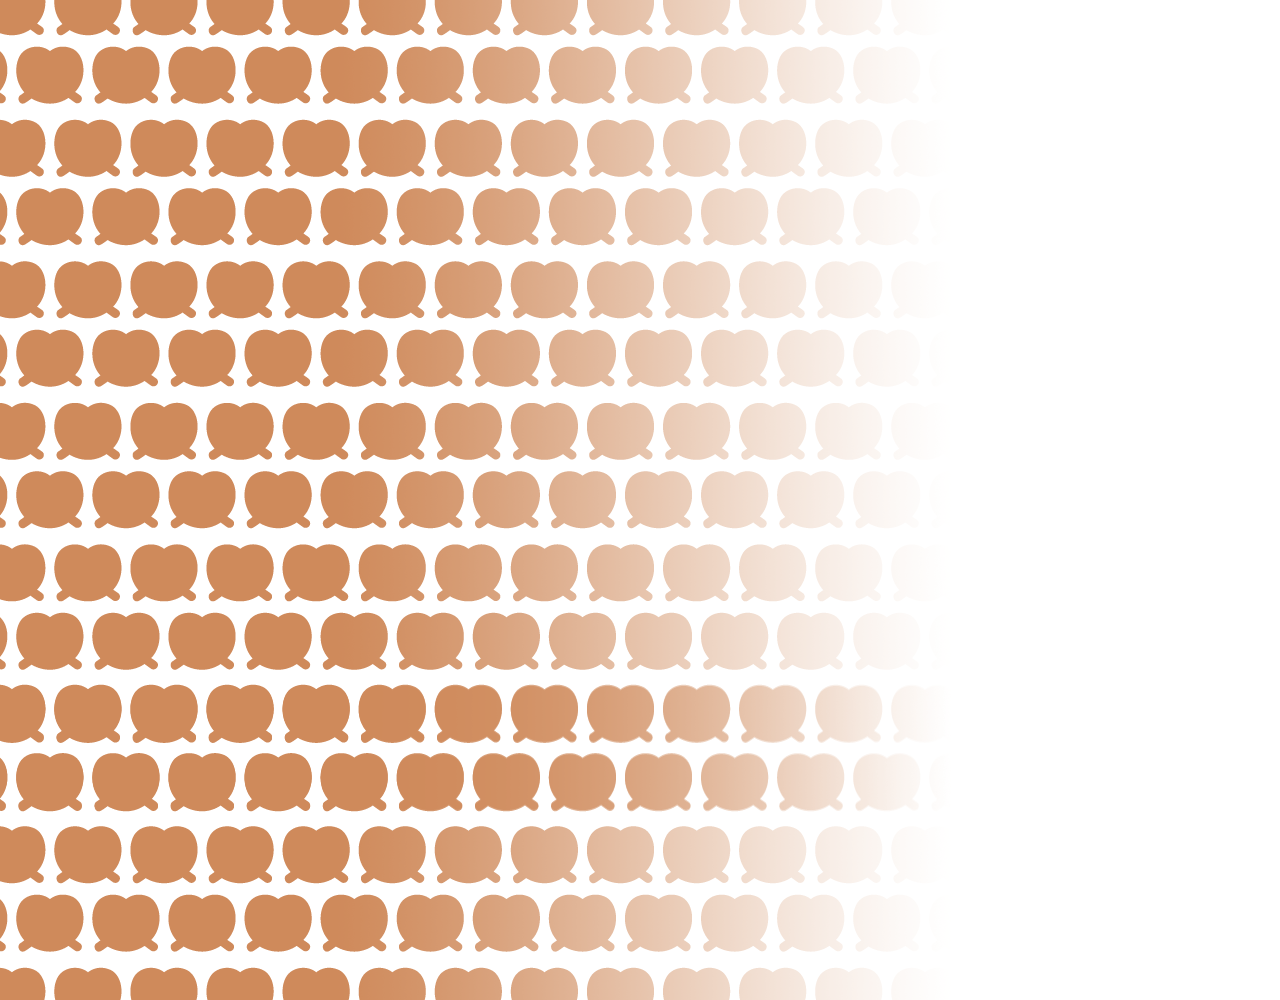
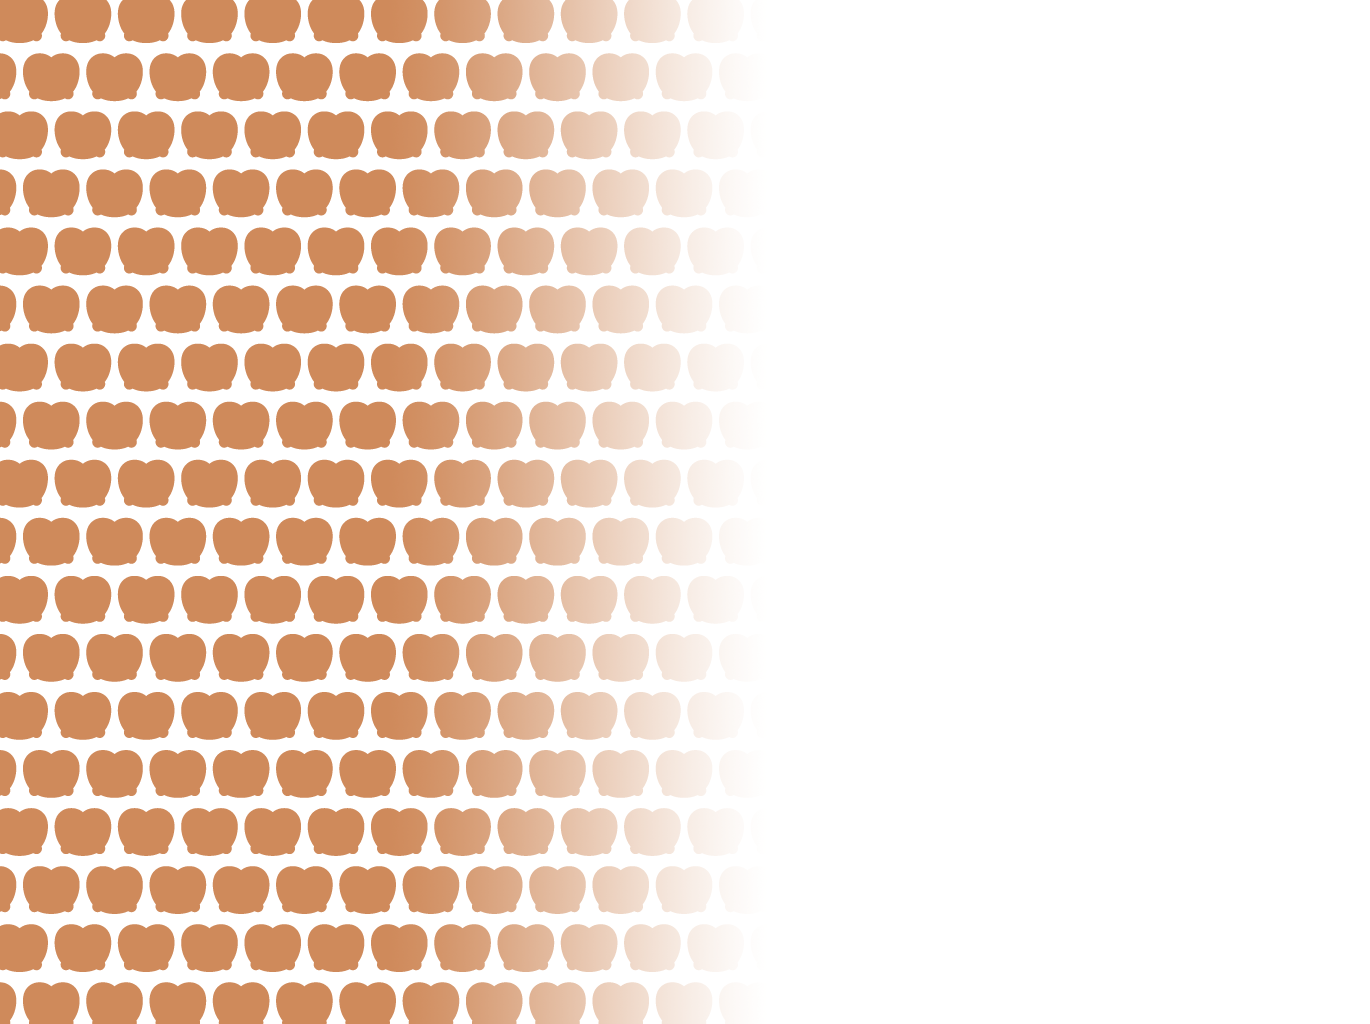
Add files via upload

diff --git a/index.html b/index.html
@@ -3,7 +3,7 @@
 <head>
     <meta charset="UTF-8">
     <meta name="viewport" content="width=device-width">
-    <title>길림양행 갈아엎기</title>
+    <title>길림양행</title>
     <link rel="stylesheet" href="../css/reset.css">
     <link rel="stylesheet" href="../css/animate.css">
     <style>
@@ -271,7 +271,14 @@
             background-color: #bb5e1e;
             background-image: url(./img/caramelBg.png);
             background-repeat: no-repeat;
+            background-size: cover;
             
+        }
+
+        #box4 .percent{
+            color: whitesmoke;
+            font-weight: 400;
+            line-height: 150%;
         }
 
         #box4 .bg04{
@@ -337,7 +344,45 @@
 
         /* box6 */
         #box6{
-            background-color: forestgreen;
+            background-color: #dfb26e;
+            background-image: url(./img/garlicAlmondBg.png);
+            background-repeat: no-repeat;
+            background-size: contain
+            ;
+        }
+        #box6 .circle, #box6 .line{
+            background-color: #c4944b;
+        }
+
+        #box6 .bg05{
+            transform: rotate(20deg);
+            width: 85px;
+        }
+
+        #box6 .bg09{
+            transform: rotate(20deg);
+            width: 100px;
+        }
+
+        /* box7 */
+        #box7{
+            background-color: #ea5527;
+            background-image: url(./img/tteokbokktBgY.png);
+            background-repeat: no-repeat;
+            background-size: contain
+            ;
+        }
+
+        #box7 .title, #box7 .content, #box7 .percent, #box7 .gram{
+            color: whitesmoke;
+        } 
+
+        #box7 .percent{
+            line-height: 140%;
+        }
+
+        #box7 .circle, #box7 .line{
+            background-color: #ffa423;
         }
     </style>
     <script src="../js/jquery-3.5.1.min.js"></script>
@@ -362,7 +407,7 @@
                  
                     
                 if(delta<0){
-                    if(divNum>=5) return false;
+                    if(divNum>=6) return false;
                     //section은 5개 index는 4까지 나오고 4이상의 section은 없으므로 다음으로 가지말고 멈추라는 뜻
                     
                     $('header a').removeClass('on')
@@ -540,7 +585,6 @@
         })
 
         }) /*box4 마우스 인식*/
-
         $(function(){
             var num = $(this).index()
             $('#box5').on('mousemove', function(event) {
@@ -587,7 +631,101 @@
 
         })
 
-        }) /*box4 마우스 인식*/
+        }) /*box5 마우스 인식*/
+        $(function(){
+            var num = $(this).index()
+            $('#box6').on('mousemove', function(event) {
+            var posX = event.pageX;
+            var posY = event.pageY;
+            // 나누는 값에서 몫이 커질수록 마우스에서 거리가 멀어진다
+            console.log(event.pageY);
+            $('.bg01').css({
+                'left': 180 + (posX / 100),
+                'top': 140 + (posY / 100)
+            });
+            $('.bg02').css({
+                'left': 370 +(posX / -70),
+                'top': 350 + (posY / 150)
+            });
+            $('.bg03').css({
+                'left': 360 + (posX / 60),
+                'top': 800 + (posY / 100)
+            });
+            $('.bg04').css({
+                'left': 350 - (posX / 35),
+                'top': 100 + (posY / -100)
+            });
+            $('.bg05').css({
+                'left': 140 - (posX / -54),
+                'top': 500 + (posY / 300)
+            });
+            $('.bg06').css({
+                'left': 140 - (posX / 60),
+                'top': 780 + (posY / -700)
+            });
+            $('.bg07').css({
+                'left': 900 - (posX / 800),
+                'top': 70 + (posY / 30)
+            });
+            $('.bg08').css({
+                'left': 920 - (posX / 300),
+                'top': 400 + (posY / 40)
+            });
+            $('.bg09').css({
+                'left': 900 - (posX / 300 ),
+                'top': 850 + (posY / -85)
+            });
+
+        })
+
+        }) /*box6 마우스 인식*/
+        $(function(){
+            var num = $(this).index()
+            $('#box7').on('mousemove', function(event) {
+            var posX = event.pageX;
+            var posY = event.pageY;
+            // 나누는 값에서 몫이 커질수록 마우스에서 거리가 멀어진다
+            console.log(event.pageY);
+            $('.bg01').css({
+                'left': 180 + (posX / 100),
+                'top': 140 + (posY / 100)
+            });
+            $('.bg02').css({
+                'left': 370 +(posX / -70),
+                'top': 350 + (posY / 150)
+            });
+            $('.bg03').css({
+                'left': 360 + (posX / 60),
+                'top': 800 + (posY / 100)
+            });
+            $('.bg04').css({
+                'left': 350 - (posX / 35),
+                'top': 100 + (posY / -100)
+            });
+            $('.bg05').css({
+                'left': 140 - (posX / -54),
+                'top': 500 + (posY / 80)
+            });
+            $('.bg06').css({
+                'left': 140 - (posX / 60),
+                'top': 780 + (posY / -100)
+            });
+            $('.bg07').css({
+                'left': 900 - (posX / 800),
+                'top': 70 + (posY / 30)
+            });
+            $('.bg08').css({
+                'left': 920 - (posX / 300),
+                'top': 400 + (posY / 40)
+            });
+            $('.bg09').css({
+                'left': 900 - (posX / 300 ),
+                'top': 850 + (posY / -85)
+            });
+
+        })
+
+        }) /*box7 마우스 인식*/
     </script>
 </head>
 
@@ -662,7 +800,7 @@
             <img src="./img/caramelImg02.png" alt="프레첼 아몬드 일러스트" class="bg09">
         </div>
         <div class="almond">
-            <img src="./img/caramelAlmond.png" alt="카라멧 아몬드">
+            <img src="./img/caramelAlmond.png" alt="프레첼 아몬드">
         </div>
         <div class="almondText">
             <p class="title">CARAMEL & PRETZEL <br> ALMOND</p>
@@ -679,34 +817,88 @@
     </section>
     <section id="box5">
         <div class="honeyIist">
-            <img src="./img/mintImg01.png" alt="프레첼 아몬드 일러스트" class="bg01">
-            <img src="./img/mintImg02.png" alt="프레첼 아몬드 일러스트" class="bg02">
-            <img src="./img/mintImg03.png" alt="프레첼 아몬드 일러스트" class="bg03">
-            <img src="./img/mintImg04.png" alt="프레첼 아몬드 일러스트" class="bg04">
-            <img src="./img/mintImg03.png" alt="프레첼 아몬드 일러스트" class="bg05">
-            <img src="./img/mintImg01.png" alt="프레첼 아몬드 일러스트" class="bg06">
-            <img src="./img/mintImg01.png" alt="프레첼 아몬드 일러스트" class="bg07">
-            <img src="./img/mintImg03.png" alt="프레첼 아몬드 일러스트" class="bg08">
-            <img src="./img/mintImg02.png" alt="프레첼 아몬드 일러스트" class="bg09">
+            <img src="./img/mintImg01.png" alt="민트초코 아몬드 일러스트" class="bg01">
+            <img src="./img/mintImg02.png" alt="민트초코 아몬드 일러스트" class="bg02">
+            <img src="./img/mintImg03.png" alt="민트초코 아몬드 일러스트" class="bg03">
+            <img src="./img/mintImg04.png" alt="민트초코 아몬드 일러스트" class="bg04">
+            <img src="./img/mintImg03.png" alt="민트초코 아몬드 일러스트" class="bg05">
+            <img src="./img/mintImg01.png" alt="민트초코 아몬드 일러스트" class="bg06">
+            <img src="./img/mintImg01.png" alt="민트초코 아몬드 일러스트" class="bg07">
+            <img src="./img/mintImg03.png" alt="민트초코 아몬드 일러스트" class="bg08">
+            <img src="./img/mintImg02.png" alt="민트초코 아몬드 일러스트" class="bg09">
         </div>
         <div class="almond">
-            <img src="./img/mintchocoAlmond.png" alt="카라멧 아몬드">
+            <img src="./img/mintchocoAlmond.png" alt="민트초코 아몬드">
         </div>
         <div class="almondText">
             <p class="title">MINT CHOCO <br> ALMOND</p>
-            <p class="content">자꾸만 손이가는 단짠단짠의 정석,<br>
-                카라멜과 프레첼의 조합은 맛이 없을 수 <br>
-                없는 단짝조합이에요 미니프레첼을 가득<br>
-                담은 카라멜 프레첼 아몬드를 드셔보세요  
+            <p class="content">코 끝에선 화 ~ 입 속에선 후 ~ <br>
+                상쾌한 민트와 진한 프랑스산 초코칩이 만나  <br>
+                민초단의 마음을 사로잡은 민트초코 아몬드를 <br>
+                드셔보세요
+                
             </p>
             <div class="line"></div>
-            <p class="gram">210g</p>
-            <p class="percent">아몬드 42.487%, 소금 1.449%, 카라멜분말 0.219% <br> [카라멜분말 베이스 85%, 카라멜 액상 59.38%] </p>
+            <p class="gram">190g</p>
+            <p class="percent">아몬드 29.75%, 코코아분말 1.628%, 페퍼민트 오일 0.083% </p>
         </div>
         <div class="circle"></div>
     </section>
     <section id="box6">
-        
+        <div class="honeyIist">
+            <img src="./img/garlicImg01.png" alt="마늘빵 아몬드 일러스트" class="bg01">
+            <img src="./img/garlicImg02.png" alt="마늘빵 아몬드 일러스트" class="bg02">
+            <img src="./img/garlicImg05.png" alt="마늘빵 아몬드 일러스트" class="bg03">
+            <img src="./img/garlicImg06.png" alt="마늘빵 아몬드 일러스트" class="bg04">
+            <img src="./img/garlicImg06.png" alt="마늘빵 아몬드 일러스트" class="bg05">
+            <img src="./img/garlicImg01.png" alt="마늘빵 아몬드 일러스트" class="bg06">
+            <img src="./img/garlicImg05.png" alt="마늘빵 아몬드 일러스트" class="bg07">
+            <img src="./img/garlicImg04.png" alt="마늘빵 아몬드 일러스트" class="bg08">
+            <img src="./img/garlicImg06.png" alt="민트초코 아몬드 일러스트" class="bg09">
+        </div>
+        <div class="almond">
+            <img src="./img/garlicAlmond.png" alt="마늘빵 아몬드">
+        </div>
+        <div class="almondText">
+            <p class="title">GARLC BREAD <br> ALMOND</p>
+            <p class="content">마늘향이 짙게 밴 바삭한 마늘 크루통과<br>
+                버터의 달달함이 어우러진 짭조름한 <br>
+                시즈닝이 뭍어있는 마늘빵 아몬드를 드셔보세요 
+                
+            </p>
+            <div class="line"></div>
+            <p class="gram">130g</p>
+            <p class="percent">아몬드 50.205%, 마늘 0.541%</p>
+        </div>
+        <div class="circle"></div>
+    </section>
+    <section id="box7">
+        <div class="honeyIist">
+            <img src="./img/tteokbokktImg04.png" alt="떡볶이 아몬드 일러스트" class="bg01">
+            <img src="./img/tteokbokktImg03.png" alt="떡볶이 아몬드 일러스트" class="bg02">
+            <img src="./img/tteokbokktImg06.png" alt="떡볶이 아몬드 일러스트" class="bg03">
+            <img src="./img/tteokbokktImg01.png" alt="떡볶이 아몬드 일러스트" class="bg04">
+            <img src="./img/tteokbokktImg02.png" alt="떡볶이 아몬드 일러스트" class="bg05">
+            <img src="./img/tteokbokktImg04.png" alt="떡볶이 아몬드 일러스트" class="bg06">
+            <img src="./img/tteokbokktImg06.png" alt="떡볶이 아몬드 일러스트" class="bg07">
+            <img src="./img/tteokbokktImg02.png" alt="떡볶이 아몬드 일러스트" class="bg08">
+            <img src="./img/tteokbokktImg03.png" alt="떡볶이  아몬드 일러스트" class="bg09">
+        </div>
+        <div class="almond">
+            <img src="./img/tteokbokktAlmond.png" alt="떡볶이 아몬드">
+        </div>
+        <div class="almondText">
+            <p class="title">TTEOKBKKI<br> ALMOND</p>
+            <p class="content">우리가 그리워하는 그 시절 그 맛 !<br>
+                고추장 베이스로 매콤한 맛에 달콤한 감칠맛<br>
+                추억의 맛까지 더 한 떡볶이 아몬드를 드셔보세요
+            </p>
+            <div class="line"></div>
+            <p class="gram">210g</p>
+            <p class="percent">아몬드 71.985%, 떡볶이 소스-지엘 2.349%<br>
+                떡볶이 분말 1.483% </p>
+        </div>
+        <div class="circle"></div>
     </section>
     <header>
         <nav>
@@ -717,6 +909,7 @@
                 <li><a href="#box4"></a></li>
                 <li><a href="#box5"></a></li>
                 <li><a href="#box6"></a></li>
+                <li><a href="#box7"></a></li>
             </ul>
         </nav>
     </header>
